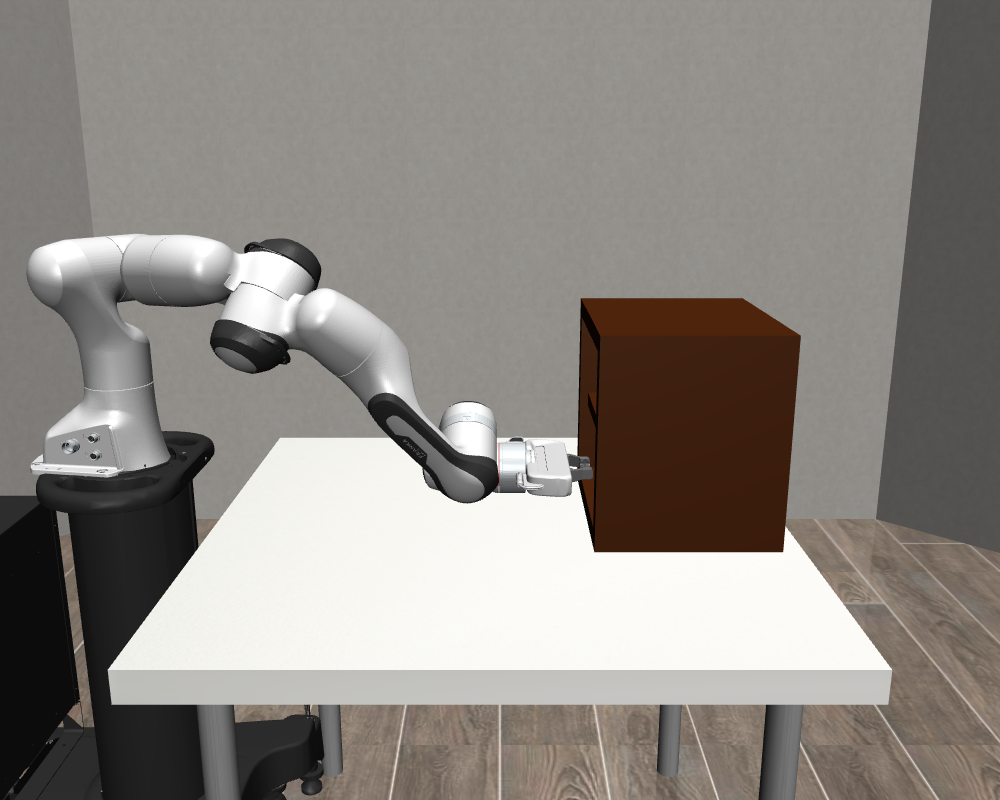
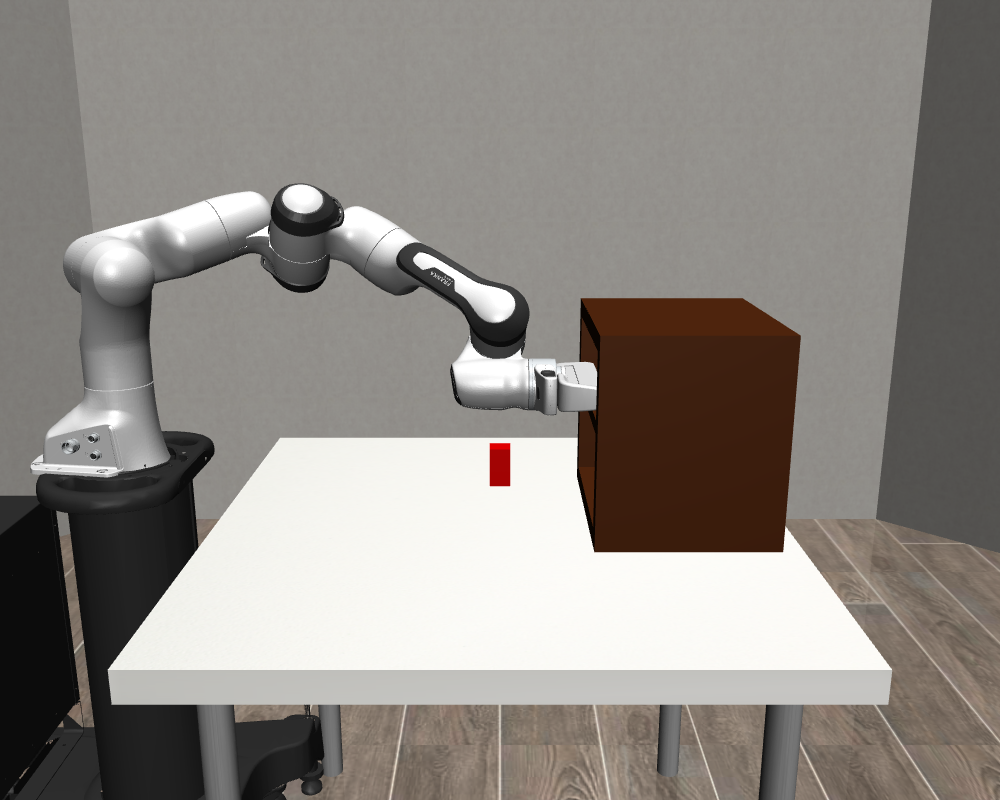
option for upper or lower

Changed region(s): [[0.031, 0.2188, 0.62, 0.625]]

diff --git a/panda_ws/src/panda_collision_checker/panda_collision_checker/task_planner_node.py b/panda_ws/src/panda_collision_checker/panda_collision_checker/task_planner_node.py
@@ -3,6 +3,7 @@ import numpy as np
 
 from rclpy.node import Node
 from geometry_msgs.msg import PoseStamped
+from std_msgs.msg import String
 from std_msgs.msg import Bool
 from panda_interfaces.srv import PlanMotion
 from .task_planner import TaskPlanner
@@ -15,25 +16,32 @@ class TaskPlannerNode(Node):
     STATE_WAITING_FOR_GRIPPER_CLOSE = 3
     STATE_WAITING_FOR_PRE_PLACE = 4
     STATE_WAITING_FOR_PLACE = 5
-    STATE_DONE = 6
+    STATE_WAITING_FOR_IDLE = 6
+    STATE_DONE = 7
 
     def __init__(self):
         super().__init__('task_planner_node')
         # Setup planner: offset=0.13 for approach position
         self.setup_planner = TaskPlanner(grasp_offset=-0.13)
         # Grasp planner: offset=0 for actual grasp position
-        self.grasp_planner = TaskPlanner(grasp_offset=-0.07)
+        self.grasp_planner = TaskPlanner(grasp_offset=-0.09)
         # Pre-place planner: approach the drawer with a 13 cm offset.
         self.pre_place_planner = TaskPlanner(grasp_offset=-0.13)
+
+        self.idle_position = np.array([-0.1, -0.15, 0.86]) 
+        
         self.latest_cube_pose = None
         self.current_state = self.STATE_IDLE
         self.setup_pose = None
         self.grasp_pose = None
         # Target inside the lower drawer, expressed in the cube_pose/world frame.
+        self.target_drawer_position = None
         self.lower_drawer_position = np.array([0.0, 0.1, 0.93])  # Adjusted to be above the drawer for placement
+        self.upper_drawer_position = np.array([0.0, 0.1, 1.07])  # Adjusted to be above the drawer for placement
         self.pre_place_pose = None
         self.place_pose = None
         self.gripper_close_timer = None
+        self.pending_setup_restart = False
 
 
         self.pose_subscription = self.create_subscription(
@@ -43,6 +51,12 @@ class TaskPlannerNode(Node):
             10
         )
 
+        self.drawer_target_subscription = self.create_subscription(
+            String,
+            '/drawer_target',
+            self.drawer_target_callback,
+            10
+        )
         self.plan_motion_client = self.create_client(PlanMotion, '/plan_motion')
         
         # Subscribe to motion completion signal
@@ -58,6 +72,29 @@ class TaskPlannerNode(Node):
         self.setup_timer = self.create_timer(2.0, self._request_setup_motion)
         self.get_logger().info("Task Planner Node initialized. Waiting for cube pose to request setup motion.")
 
+    def drawer_target_callback(self, msg):
+        """Handle drawer target messages to determine which drawer to place the cube in."""
+        if msg.data == "lower":
+            self.target_drawer_position = self.lower_drawer_position
+            self.get_logger().info("Drawer target set to LOWER drawer.")
+        elif msg.data == "upper":
+            self.target_drawer_position = self.upper_drawer_position
+            self.get_logger().info("Drawer target set to UPPER drawer.")
+        else:
+            self.get_logger().warn(f"Received unknown drawer target: {msg.data}. Ignoring.")
+            return
+
+        if self.current_state == self.STATE_IDLE or self.current_state == self.STATE_DONE:
+            self.get_logger().info("New drawer target received; starting setup motion.")
+            self.current_state = self.STATE_IDLE
+            self.pending_setup_restart = False
+            self._request_setup_motion()
+        else:
+            self.pending_setup_restart = True
+            self.get_logger().info(
+                f"New drawer target received while a motion sequence is active; will restart setup after completion."
+            )
+
     def cube_pose_callback(self, msg):
         # Store the latest cube pose for use when generating motion plans
         self.latest_cube_pose = msg
@@ -70,6 +107,10 @@ class TaskPlannerNode(Node):
         """Request motion to setup/pre-grasp pose."""
         if self.latest_cube_pose is None:
             self.get_logger().warn("No cube pose available yet; waiting for cube_pose message.")
+            return
+
+        if self.target_drawer_position is None:
+            self.get_logger().warn("No drawer target defined yet; waiting before requesting setup motion.")
             return
 
         if self.current_state != self.STATE_IDLE:
@@ -135,7 +176,7 @@ class TaskPlannerNode(Node):
         self.current_state = self.STATE_WAITING_FOR_PRE_PLACE
 
         self.pre_place_pose = self.pre_place_planner.generate_approach_pose(
-            self.lower_drawer_position,
+            self.target_drawer_position,
             self.grasp_pose[1],
         )
         self._send_plan_request(self.pre_place_pose, "PRE_PLACE_IN_LOWER_DRAWER")
@@ -151,8 +192,20 @@ class TaskPlannerNode(Node):
 
         # Keep the end-effector orientation used to grasp the cube while
         # descending from the pre-place pose to the lower-drawer target.
-        self.place_pose = (self.lower_drawer_position, self.grasp_pose[1])
+        self.place_pose = (self.target_drawer_position, self.grasp_pose[1])
         self._send_plan_request(self.place_pose, "PLACE_IN_LOWER_DRAWER")
+
+    def _request_idle_motion(self):
+        """Request motion to the idle pose while keeping the current orientation."""
+        if self.grasp_pose is None:
+            self.get_logger().error("No grasp pose is available; cannot request idle motion.")
+            self.current_state = self.STATE_IDLE
+            return
+
+        self.current_state = self.STATE_WAITING_FOR_IDLE
+
+        idle_pose = (self.idle_position, self.grasp_pose[1])
+        self._send_plan_request(idle_pose, "IDLE")
 
     def _close_gripper_then_request_pre_place(self):
         """Give the gripper command one control cycle before transporting the cube."""
@@ -213,7 +266,15 @@ class TaskPlannerNode(Node):
         elif self.current_state == self.STATE_WAITING_FOR_PLACE:
             self.get_logger().info("Lower-drawer placement motion completed. Opening gripper.")
             self.gripper_command_publisher.publish(Bool(data=False))  # Release the cube
+            self._request_idle_motion()
+        elif self.current_state == self.STATE_WAITING_FOR_IDLE:
+            self.get_logger().info("Idle motion completed.")
             self.current_state = self.STATE_DONE
+            if self.pending_setup_restart and self.target_drawer_position is not None:
+                self.get_logger().info("Pending drawer target restart detected; starting setup motion again.")
+                self.pending_setup_restart = False
+                self.current_state = self.STATE_IDLE
+                self._request_setup_motion()
         else:
             # Ignore completion signals if not waiting for motion
             self.get_logger().debug(f"Received /motion_completed but not waiting for motion (state={self.current_state})")
@@ -237,6 +298,7 @@ class TaskPlannerNode(Node):
         else:
             self.get_logger().warn(f"{motion_type} motion plan failed; resetting to idle state.")
             self.current_state = self.STATE_IDLE
+            self.pending_setup_restart = False
 
 def main(args=None):
 

diff --git a/panda_ws/src/panda_collision_checker/panda_collision_checker/mujoco_node.py b/panda_ws/src/panda_collision_checker/panda_collision_checker/mujoco_node.py
@@ -26,6 +26,18 @@ class MujocoNode(Node):
         # Declare and get control mode parameter
         self.declare_parameter('control_mode', 'planner')  # 'planner' or 'manual'
         self.control_mode = self.get_parameter('control_mode').value
+        # Optional: starting joint positions for manual mode (list of 7 floats)
+        self.manual_start_positions = np.asarray([
+            0.9051703886252025,
+            1.2204282509234898,
+            -0.4194572151022374,
+            -1.8351950762934068,
+            -2.3292482242329973,
+            1.959637702580288,
+            1.002957050746871
+
+        ])
+
         self.get_logger().info(f"Control mode: {self.control_mode}")
 
         # Manual input needs a controller supported by robosuite input2action.
@@ -45,7 +57,63 @@ class MujocoNode(Node):
             use_camera_obs=False,
             controller_configs=controller_configs,
         )
+        # Initialize environment
         self.env.reset()
+
+        # Apply manual start positions AFTER reset so they are not overwritten
+        if self.control_mode == 'manual' and self.manual_start_positions is not None:
+            try:
+                start = np.asarray(self.manual_start_positions, dtype=np.float64)
+                if start.size == 7:
+                    self.get_logger().info(f"Applying manual start joint positions: {start.tolist()}")
+                    try:
+                        # Set simulator qpos directly and update internal state
+                        self.env.sim.data.qpos[:7] = start
+                        try:
+                            self.env.robots[0]._joint_positions = start.copy()
+                        except Exception:
+                            pass
+                        # Update controller initial joints if supported
+                        try:
+                            self.env.robots[0].controller.update_initial_joints(start)
+                        except Exception:
+                            pass
+                        # Forward the simulator to apply changes
+                        self.env.sim.forward()
+                    except Exception as e:
+                        self.get_logger().warn(f"Failed to apply manual start positions: {e}")
+                else:
+                    self.get_logger().warn(
+                        f"manual_start_positions must have 7 elements, got {start.size}"
+                    )
+            except Exception as e:
+                self.get_logger().warn(f"Error processing manual_start_positions: {e}")
+
+        # # If manual control was requested and a start joint position list was provided,
+        # # set the robot to that joint configuration immediately so manual control
+        # # begins from the requested pose.
+        # try:
+        #     if self.control_mode == 'manual' and self.manual_start_positions:
+        #         start = np.asarray(self.manual_start_positions, dtype=np.float64)
+        #         if start.size == 7:
+        #             # Set the first 7 qpos entries (assumed joint qpos) and forward the sim
+        #             self.get_logger().info(f"Applying manual start joint positions: {start.tolist()}")
+        #             try:
+        #                 self.env.sim.data.qpos[:7] = start
+        #                 # Update robosuite internal state if available
+        #                 try:
+        #                     self.env.robots[0]._joint_positions = start.copy()
+        #                 except Exception:
+        #                     pass
+        #                 self.env.sim.forward()
+        #             except Exception as e:
+        #                 self.get_logger().warn(f"Failed to apply manual start positions: {e}")
+        #         else:
+        #             self.get_logger().warn(
+        #                 f"Parameter 'manual_start_positions' must have 7 elements, got {start.size}"
+        #             )
+        # except Exception as e:
+        #     self.get_logger().warn(f"Error processing manual_start_positions parameter: {e}")
 
         self.cube_id = self.env.sim.model.body_name2id("red_cube_main")
         self._zero_action = np.zeros(self.env.action_dim, dtype=np.float64)
@@ -93,13 +161,34 @@ class MujocoNode(Node):
             quat_wxyz[0]
         ])
 
-        self.get_logger().info(
-            f"Gripper quaternion (xyzw): "
-            f"[{quat_xyzw[0]:.6f}, "
-            f"{quat_xyzw[1]:.6f}, "
-            f"{quat_xyzw[2]:.6f}, "
-            f"{quat_xyzw[3]:.6f}]"
-        )
+        # Get current joint positions (first 7 qpos assumed joints)
+        try:
+            joint_positions = np.asarray(self.env.sim.data.qpos[:7], dtype=np.float64)
+        except Exception:
+            joint_positions = None
+
+        # Get gripper position in world frame (body_xpos)
+        try:
+            gripper_pos = np.asarray(self.env.sim.data.body_xpos[gripper_id], dtype=np.float64)
+        except Exception:
+            gripper_pos = None
+
+        # Log orientation, joint positions, and gripper world position
+        msg_lines = [
+            f"Gripper quaternion (xyzw): [{quat_xyzw[0]:.6f}, {quat_xyzw[1]:.6f}, {quat_xyzw[2]:.6f}, {quat_xyzw[3]:.6f}]"
+        ]
+
+        if joint_positions is not None:
+            msg_lines.append(f"Joint positions: [{', '.join(f'{x:.6f}' for x in joint_positions)}]")
+        else:
+            msg_lines.append("Joint positions: <unavailable>")
+
+        if gripper_pos is not None:
+            msg_lines.append(f"Gripper position (world): [{gripper_pos[0]:.6f}, {gripper_pos[1]:.6f}, {gripper_pos[2]:.6f}]")
+        else:
+            msg_lines.append("Gripper position (world): <unavailable>")
+
+        self.get_logger().info(" | ".join(msg_lines))
         
     def _get_param_or_default(self, name, default):
         """Get parameter value, or return default if not set."""

diff --git a/panda_ws/src/panda_planner/src/test_ik.cpp b/panda_ws/src/panda_planner/src/test_ik.cpp
@@ -97,7 +97,7 @@ int main()
     // ============================================================
 
     Eigen::Vector3d grasp_position_world(
-        0.0,  0.05,   0.9
+        0.0,  0.1,   1.05
     );
     // Eigen::Vector3d grasp_position_world(
     //     0.0,
@@ -106,7 +106,6 @@ int main()
     // );
 
     // ROS quaternion is [x, y, z, w]
-    //
     // Eigen::Quaterniond constructor is (w, x, y, z)
 
     // Eigen::Quaterniond grasp_orientation_world(
@@ -117,7 +116,7 @@ int main()
     // );
 
     Eigen::Quaterniond grasp_orientation_world(
-        0.5, -0.5,  0.5,  0.5       
+        -0.5, 0.5,  0.5,  0.5       
     );
     // ============================================================
     // 2. PANDA BASE POSE FROM MUJOCO

diff --git a/panda_ws/src/panda_collision_checker/panda_collision_checker/test_collision.py b/panda_ws/src/panda_collision_checker/panda_collision_checker/test_collision.py
@@ -32,7 +32,7 @@ def main():
     # --------------------------------------------------
     
     q = np.array([
-       -0.618903, 1.50345, 0.795824, -1.31577, 2.64209, 2.26946, 0.25   
+       0.61074, 1.28851, -0.878556, -1.28855, -2.83056, 2.47031, -1.75 
     ])
 
     # --------------------------------------------------

diff --git a/README.md b/README.md
@@ -6,3 +6,5 @@ ros2 run panda_planner motion_planner
 
 ros2 run panda_collision_checker mujoco_node --ros-args -p control_mode:=manual -p device_type:=keyboard
 ros2 launch panda_collision_checker all_nodes.launch.py
+
+ros2 topic pub --once /drawer_target std_msgs/msg/String "{data: upper}"
